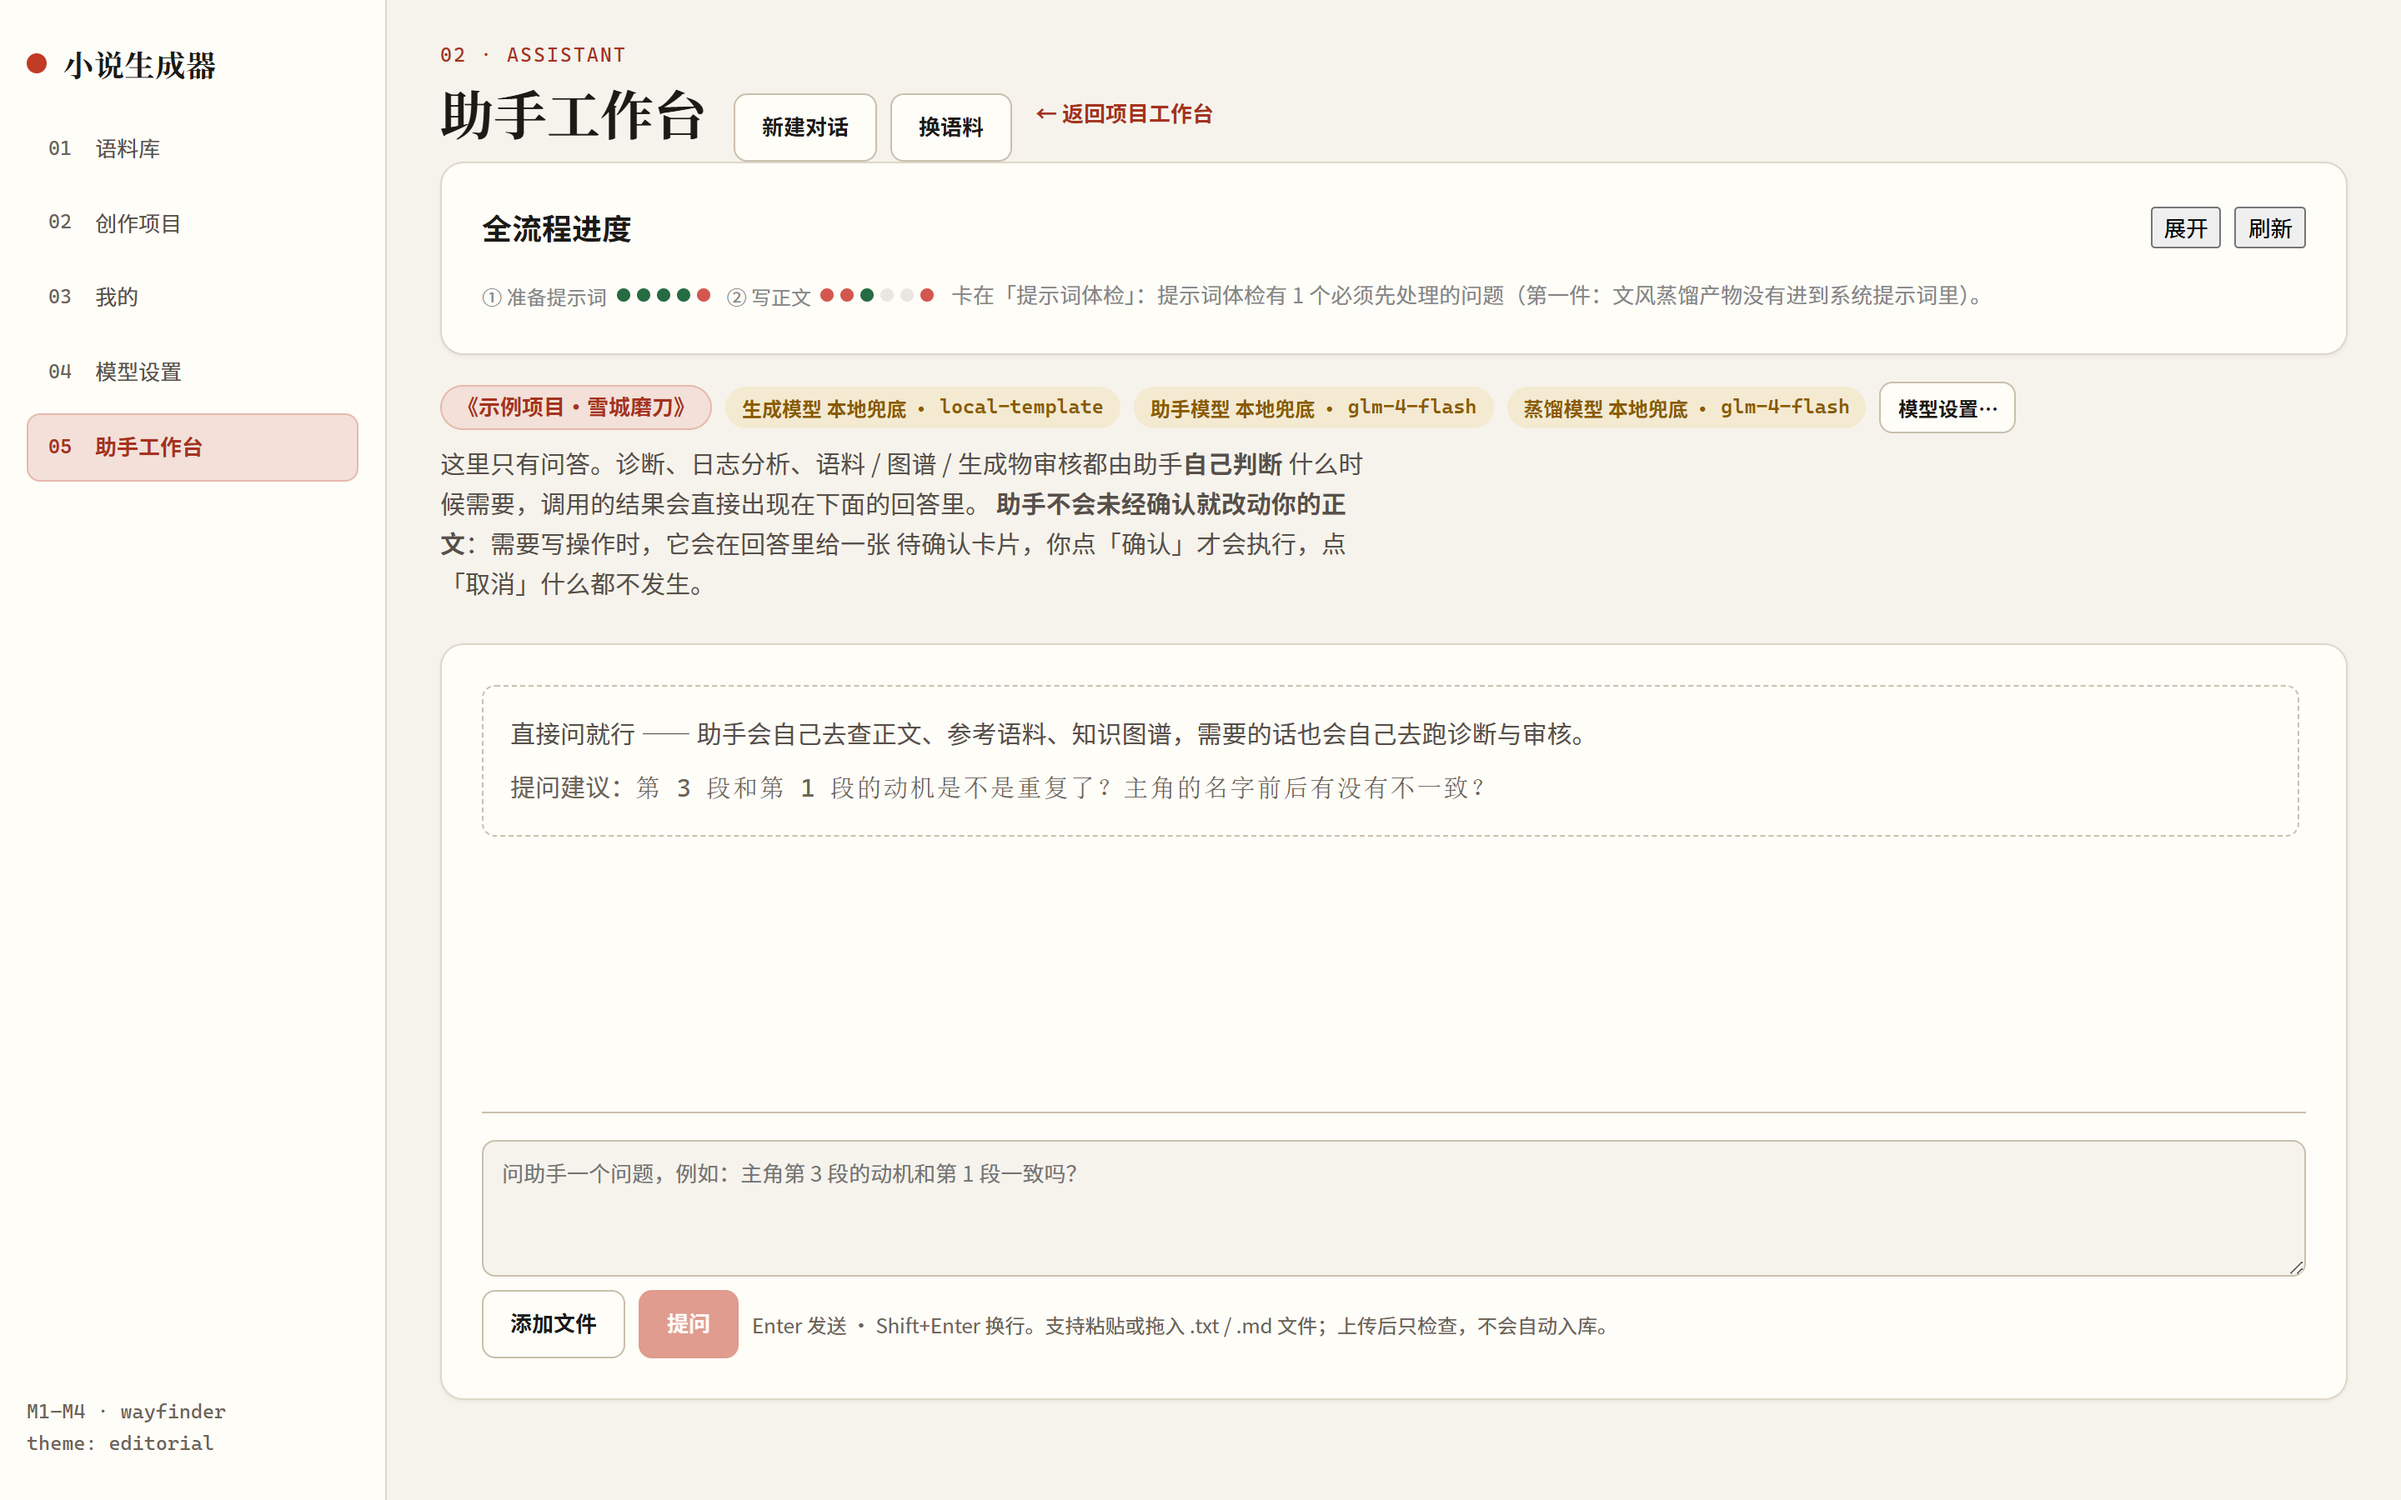
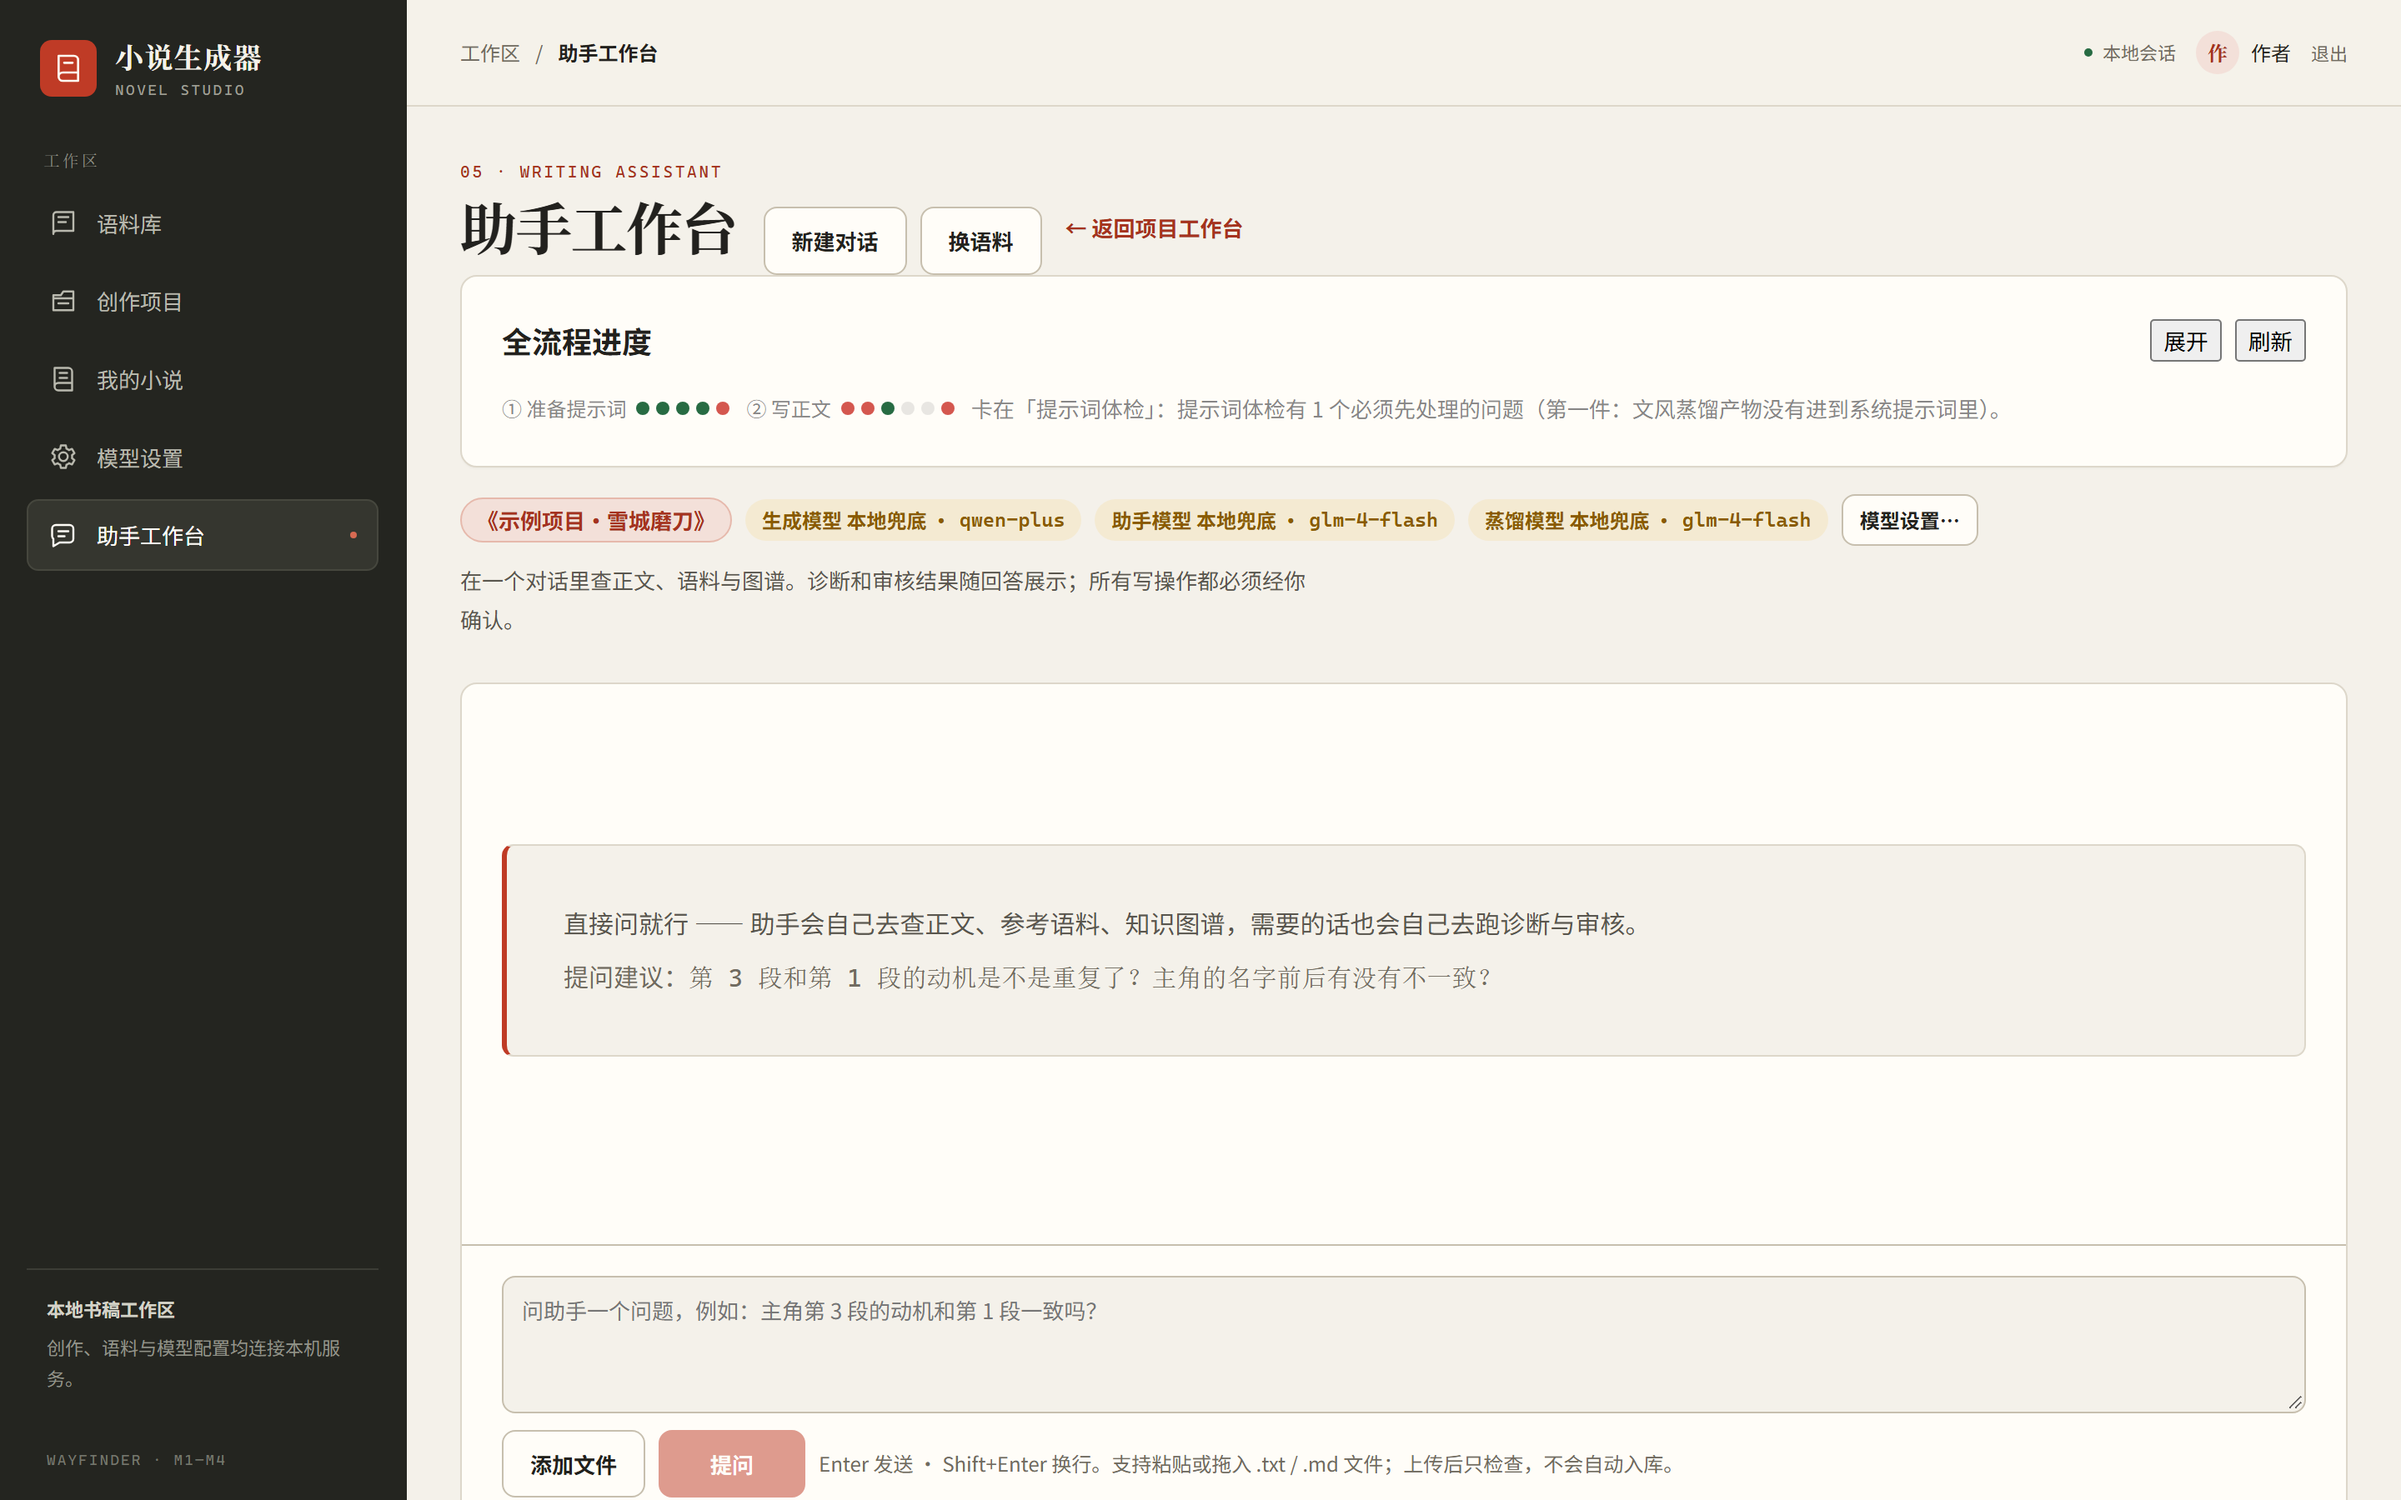
docs: README 截图换成新 UI，并补登录页与导出说明
Trae 重做了前端界面，README 里那四张截图还是旧版（侧栏「01 语料库…」、按钮「导出 txt」），
和现在的界面对不上。重新用无头 Chromium 在 1440×900 @2x 拍了一套（2880×1800，与原图同尺寸）：

- workspace.png    —— 项目工作台（新侧栏、导出作品入口、七步工序、生成控制台）
- workspace_body2.png —— 已生成段落（第 1、2 段正文，标点/空白占比直接标在段头上）
- kg.png           —— KG 工作台（切片预览 + 未回收伏笔 + 近期事件）
- assistant.png    —— 助理工作台（全流程进度、模型档位、只提卡边界）
- login.png        —— 新增：单用户登录占位页

同时把 README 里已经过时的描述改掉：
- 补「导出作品」这条能力（大纲 / 人物表 / 坑清单三个 .md，纯前端拼装，没加后端接口）；
- 正文那张从「第 2、3 段」改成「第 1、2 段」（新截图里就是这两段）；
- 前端测试数从「11 个纯逻辑文件（58 项）」改成实际的「12 个（66 项）」；
- 交接单 docs/frontend-handoff.md 里那条自检命令的用例数同步改成 66。

diff --git a/README.md b/README.md
@@ -77,6 +77,10 @@
   伏笔的回收章必须有正文证据，编造的不入账。
 - **生成工序链** —— `生成 → 段长闸门 → 场景契约审计 → 去重 → AI 味重写 → 文风改写 → 形态校正 → 摘要/KG → 落库`。
   同一把尺量落库的那份，界面上显示的和落库的是同一份。
+- **导出作品** —— 项目工作台一键导出**大纲 / 人物表 / 坑清单**三个 `.md`：
+  文件名保留中文，人物卡里的数组与嵌套对象展开成可读文本（不出现 `[object Object]`），
+  空值写「暂无大纲」而不是编造。正文另有「导出 txt」。
+  这一条是纯前端拼装 —— 所需数据前端本来就拿得到，没有为此加后端接口。
 - **助理 agent，只提卡不落库** —— 28 个工具**全部 `read_only=True`**，注册时硬拒非只读工具；
   要改数据只有一条路：构造**待确认卡**，人点了才执行，执行留版本快照、可回滚。
 - **四轴验收 + 盲评包** —— 离线跑验闭环与记忆系统，真模型跑验文风与漂移；
@@ -87,12 +91,17 @@
 
 ## 🖼 界面
 
+**登录页** —— 单用户占位：只用一个用户名标识本机会话，不存令牌、不验证密码
+（任务书明确不做真多用户隔离）。
+
+![登录页](docs/images/login.png)
+
 **项目工作台** —— 创作三板块（原创 / 续写 / 角色）、七步工序、生成控制台。
 角色个性里的「说话」「会」两条，是从已经写出来的正文里**反推**的，不是手填的。
 
 ![项目工作台](docs/images/workspace.png)
 
-**生成的正文** —— 同一页往下滚就是第 2、3 段，界面显示的就是落库的那一份。
+**生成的正文** —— 同一页往下滚就是第 1、2 段，界面显示的就是落库的那一份。
 
 ![生成的正文](docs/images/workspace_body2.png)
 
@@ -268,7 +277,7 @@ flowchart TD
 | `backend/app/` | 后端全部实现：混合检索 / 知识图谱 / 生成环 / 文体蒸馏 / 助理 agent |
 | `frontend/` | Vue 3 + Vite 前端：创作三板块、助理工作台、模型设置 |
 | `tests/` | **2,111** 项 pytest 用例（单源真源，`pytest tests/`） |
-| `frontend/tests/` | 前端测试：11 个纯逻辑文件（58 项，`node --test`）+ 4 个组件级文件（33 项，vitest + jsdom） |
+| `frontend/tests/` | 前端测试：12 个纯逻辑文件（66 项，`node --test`）+ 4 个组件级文件（33 项，vitest + jsdom） |
 | `docs/` | 74 份设计文档与指南：架构怎么定的、判据为什么这么定 |
 | `docs/images/` | README 用的界面截图 |
 | `skills/` | 可复用的**方法单元**（agent skill）：盲评包脱敏与防泄露（SKILL.md + 事故复盘 + 泄露扫描脚本）、长文本摘要的证据强制与可自动判的验收（SKILL.md + 20 项可证伪验证） |

diff --git a/docs/frontend-handoff.md b/docs/frontend-handoff.md
@@ -12,7 +12,7 @@ cd <REPO_ROOT>/frontend
 npm ci            # 首次
 npm run dev       # dev server → http://localhost:5173
 npm run typecheck # vue-tsc --noEmit（必须过）
-npm test          # 58 个纯逻辑用例（node --test）+ 33 个组件用例（vitest）
+npm test          # 66 个纯逻辑用例（node --test）+ 33 个组件用例（vitest）
 npm run build     # 上面两条都过，才会产出 dist/
 ```
 
